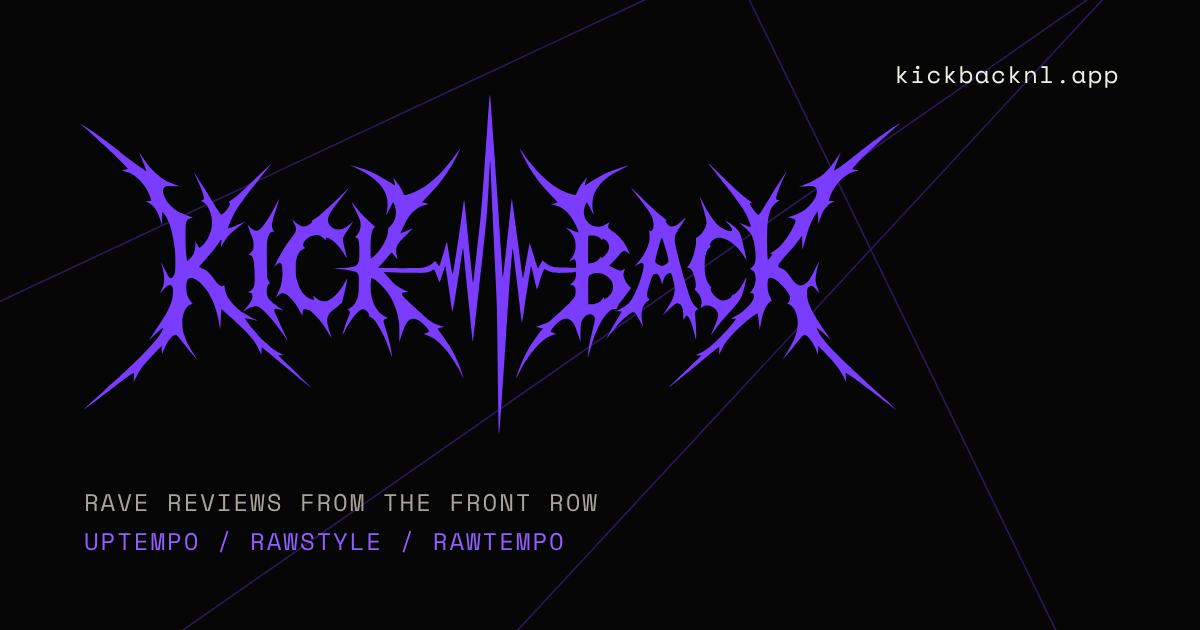
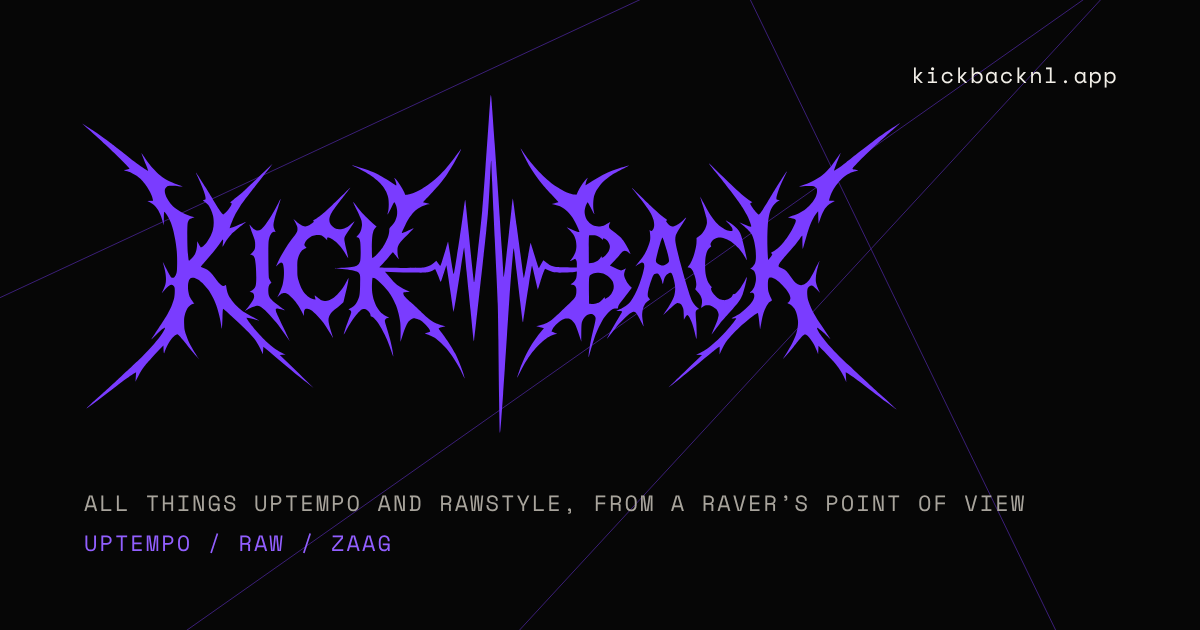
Home/blog SEO copy, new tagline as home H1 + social preview image, genres box
- Tagline = home H1 = social preview image text: 'All things uptempo and
  rawstyle, from a raver's point of view'
- New home meta title and description (SITE.homeTitle / SITE.description),
  blog page meta description
- Genres box: Uptempo / Raw / Zaag
- og-default.png regenerated in the same style with the new text

Claude-Session: https://claude.ai/code/session_01CkRaYUJua3NRbq4VbNDn6r

diff --git a/src/consts.ts b/src/consts.ts
@@ -1,10 +1,11 @@
 // Single source of truth for site-wide settings. Change the name here only.
 export const SITE = {
   name: 'Kickback',
-  tagline: 'Uptempo, rawstyle & rawtempo — from the front row.',
-  homeTitle: 'Kickback | Dutch uptempo & rawstyle rave reviews', // <title> of the home page (keep under 60 characters)
+  tagline: 'All things uptempo and rawstyle, from a raver’s point of view', // also the home page H1 and the social preview image text
+  homeTitle: 'Kickback | Uptempo & rawstyle rave reviews and tips', // <title> of the home page (keep under 60 characters)
+  // Meta description (Google + social previews, RSS). The "Why Kickback exists" text on the home page is separate.
   description:
-    'Personal rave reviews, upcoming events, new DJ acts and rave outfits from the Dutch hardcore scene: uptempo, rawstyle and rawtempo.',
+    'Uptempo and rawstyle rave reviews from my own experience: what it cost, how it scored and if it was worth it. Plus tips for your first big hardcore festival.',
   url: 'https://www.kickbacknl.app', // keep in sync with `site` in astro.config.mjs
   locale: 'en',
   author: 'Thijs Kraaijenbos',
